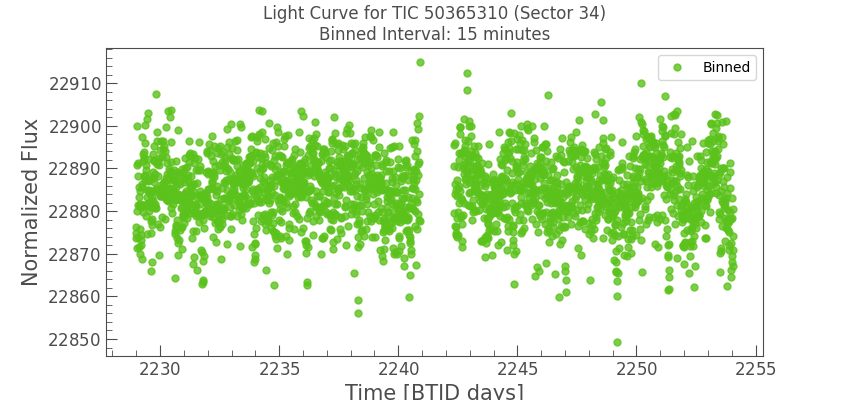
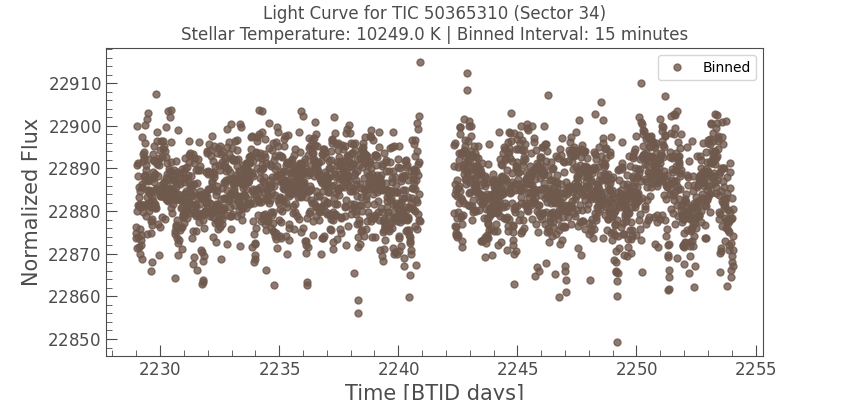
👩🏻🍳🌯 ↝ [SSP-52 SSP-53]: LK graphs for PH with stellar surface temp

diff --git a/content/anomalies/periodCurves.py b/content/anomalies/periodCurves.py
@@ -2,10 +2,39 @@ import os
 import lightkurve as lk
 import matplotlib.pyplot as plt
 import random
+from astroquery.mast import Catalogs
 
 def generate_random_color():
     """Generate a random color in RGB format."""
     return [random.random(), random.random(), random.random()]
+
+def fetch_star_temperature(tic_id):
+    """Fetch the star's surface temperature (Teff) from the TESS Input Catalog."""
+    try:
+        star_info = Catalogs.query_object(f"TIC {tic_id}", catalog="TIC")
+        if len(star_info) > 0 and 'Teff' in star_info.columns:
+            return star_info[0]['Teff']
+        return "Unknown"
+    except Exception as e:
+        print(f"Error fetching temperature for TIC {tic_id}: {e}")
+        return "Unknown"
+
+def filter_numeric_lightcurve(lc):
+    """
+    Ensures that the LightCurve object contains only numeric columns before binning.
+    
+    Parameters:
+    - lc: LightCurve object to filter.
+    
+    Returns:
+    - A filtered LightCurve object with only numeric columns.
+    """
+    try:
+        lc = lc["time", "flux", "flux_err"]  # Retain only essential numeric columns
+        return lc
+    except KeyError as e:
+        print(f"Error filtering light curve: {e}")
+        return None
 
 def plot_individual_sectors_with_time_binning(tic_id, bin_time_minutes=15):
     """
@@ -19,8 +48,11 @@ def plot_individual_sectors_with_time_binning(tic_id, bin_time_minutes=15):
     # Convert binning time to days (Lightkurve uses days as the time unit)
     bin_time_days = bin_time_minutes / 24 / 60
 
+    # Fetch star temperature
+    temperature = fetch_star_temperature(tic_id)
+
     # Search for light curves
-    search_result = lk.search_lightcurve(f"TIC {tic_id}", author="SPOC")
+    search_result = lk.search_lightcurve(f"TIC {tic_id}")  # , author="SPOC"
     if len(search_result) == 0:
         print(f"No light curves found for TIC {tic_id}.")
         return
@@ -31,8 +63,17 @@ def plot_individual_sectors_with_time_binning(tic_id, bin_time_minutes=15):
     
     # Iterate over each sector and plot individually, then save to the folder
     for i, lc_file in enumerate(search_result, start=1):
-        # Download the light curve and remove outliers
+        # Download the light curve and filter numeric columns
         lc = lc_file.download()
+        if lc is None:
+            continue
+        
+        lc = filter_numeric_lightcurve(lc)
+        if lc is None:
+            print(f"Skipping sector {i} for TIC {tic_id} due to invalid data.")
+            continue
+        
+        # Remove outliers
         lc = lc.remove_outliers(sigma=5)
         
         # Bin the light curve based on the specified time interval
@@ -46,7 +87,10 @@ def plot_individual_sectors_with_time_binning(tic_id, bin_time_minutes=15):
         lc_binned.plot(marker='o', linewidth=0, color=random_color, alpha=0.8, markersize=5, label='Binned')
         
         # Add plot labels and legend
-        plt.title(f"Light Curve for TIC {tic_id} (Sector {lc.sector})\nBinned Interval: {bin_time_minutes} minutes")
+        plt.title(
+            f"Light Curve for TIC {tic_id} (Sector {lc.sector})\n"
+            f"Stellar Temperature: {temperature} K | Binned Interval: {bin_time_minutes} minutes"
+        )
         plt.xlabel("Time [BTJD days]")
         plt.ylabel("Normalized Flux")
         plt.legend()
@@ -60,5 +104,11 @@ def process_tic_ids(tic_ids, bin_time_minutes=15):
     for tic_id in tic_ids:
         plot_individual_sectors_with_time_binning(tic_id, bin_time_minutes)
 
-tic_ids = ["50365310", "65212867", "88863718", "106997505", "124709665", "156115721", "169904935", "238597883", "277039287", "57299130", "21720215", "263723967", "284300833", "269343479", "345724317", "210904767", "329981856", "201175570",]  # List of TIC IDs
+# List of TIC IDs to process
+tic_ids = [
+    "50365310", "65212867", "88863718", "106997505", "124709665", 
+    "156115721", "169904935", "238597883", "277039287", "57299130", 
+    "21720215", "263723967", "284300833", "269343479", "345724317", 
+    "210904767", "329981856", "201175570"
+]
 process_tic_ids(tic_ids, bin_time_minutes=15)

diff --git a/content/upload.py b/content/upload.py
@@ -93,7 +93,7 @@ def upload_directory_to_supabase(supabase: Client, bucket_name: str, local_direc
 def main():
     supabase = init_supabase_client()
     bucket_name = "anomalies" #telescope/telescope-dailyMinorPlanet"
-    local_directory = "telescope/telescope-dailyMinorPlanet" 
+    local_directory = "anomalies" # "telescope/telescope-dailyMinorPlanet" 
     
     upload_directory_to_supabase(supabase, bucket_name, local_directory)
 
